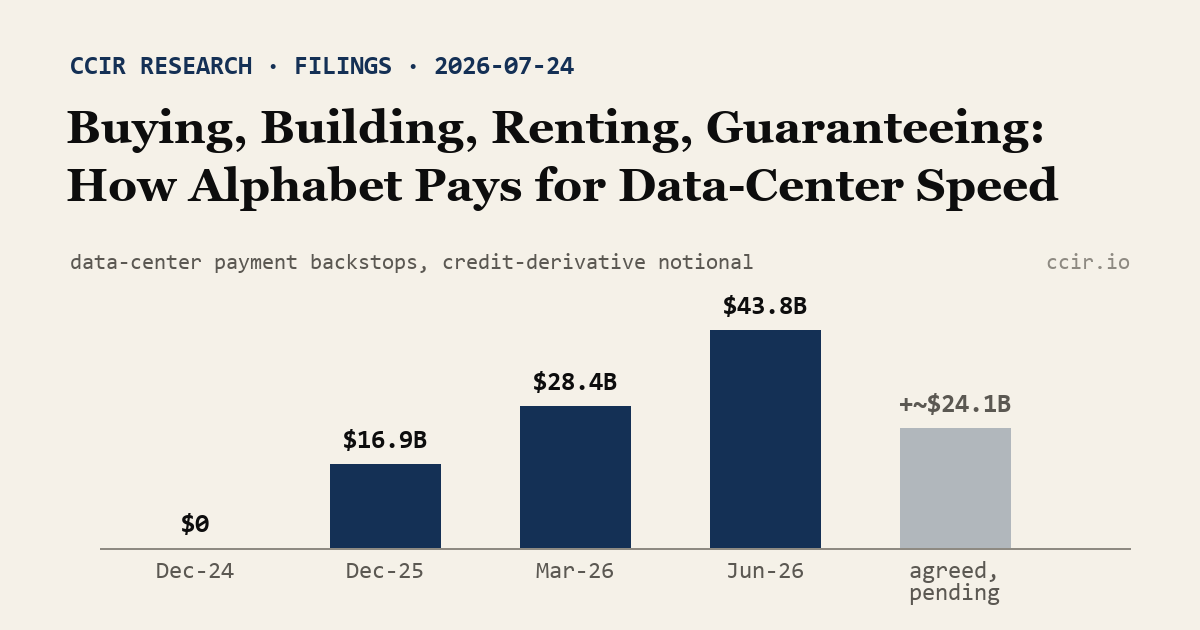
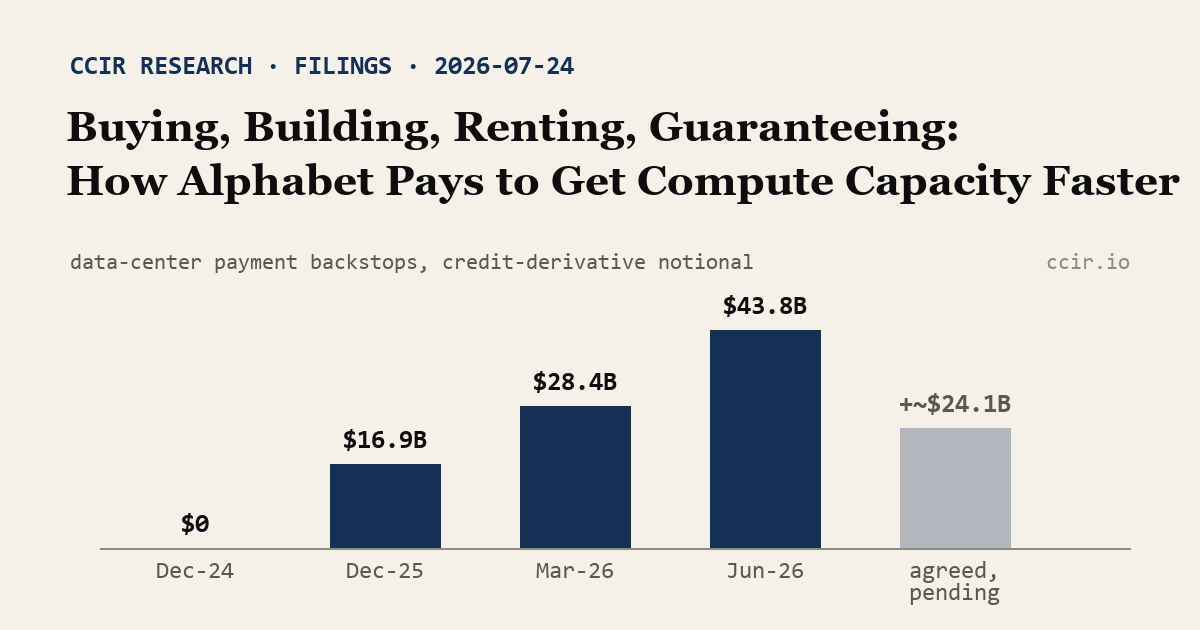
research: retitle note - "How Alphabet Pays to Get Compute Capacity Faster"
"Data-center speed" misread as facility performance, and two of the
four channels procure power, not data centers - compute capacity is
the accurate umbrella. Propagated: h1, page title, OG card, research
index, monitor cross-link. Slug unchanged.

Claude-Session: https://claude.ai/code/session_01UYrUd94Tjt1xApeZRCgejy

Changed region(s): [[0.0617, 0.1508, 0.9867, 0.3317]]

diff --git a/scripts/build_og_alphabet_speed.py b/scripts/build_og_alphabet_speed.py
@@ -27,14 +27,14 @@ img = Image.new("RGB", (W, H), BG)
 d = ImageDraw.Draw(img, "RGBA")
 
 f_kicker = ImageFont.truetype(MONO_B, 26)
-f_title = ImageFont.truetype(SERIF_B, 46)
+f_title = ImageFont.truetype(SERIF_B, 42)
 f_lab = ImageFont.truetype(MONO, 24)
 f_val = ImageFont.truetype(MONO_B, 26)
 f_key = ImageFont.truetype(MONO, 22)
 
 d.text((70, 54), "CCIR RESEARCH · FILINGS · 2026-07-24", font=f_kicker, fill=ACCENT)
-d.text((66, 100), "Buying, Building, Renting, Guaranteeing:", font=f_title, fill=INK)
-d.text((66, 158), "How Alphabet Pays for Data-Center Speed", font=f_title, fill=INK)
+d.text((66, 102), "Buying, Building, Renting, Guaranteeing:", font=f_title, fill=INK)
+d.text((66, 156), "How Alphabet Pays to Get Compute Capacity Faster", font=f_title, fill=INK)
 
 # backstop ladder (chart 2 of the note); pending drawn as its own bar
 bars = [("Dec-24", 0.0, False), ("Dec-25", 16.9, False),
